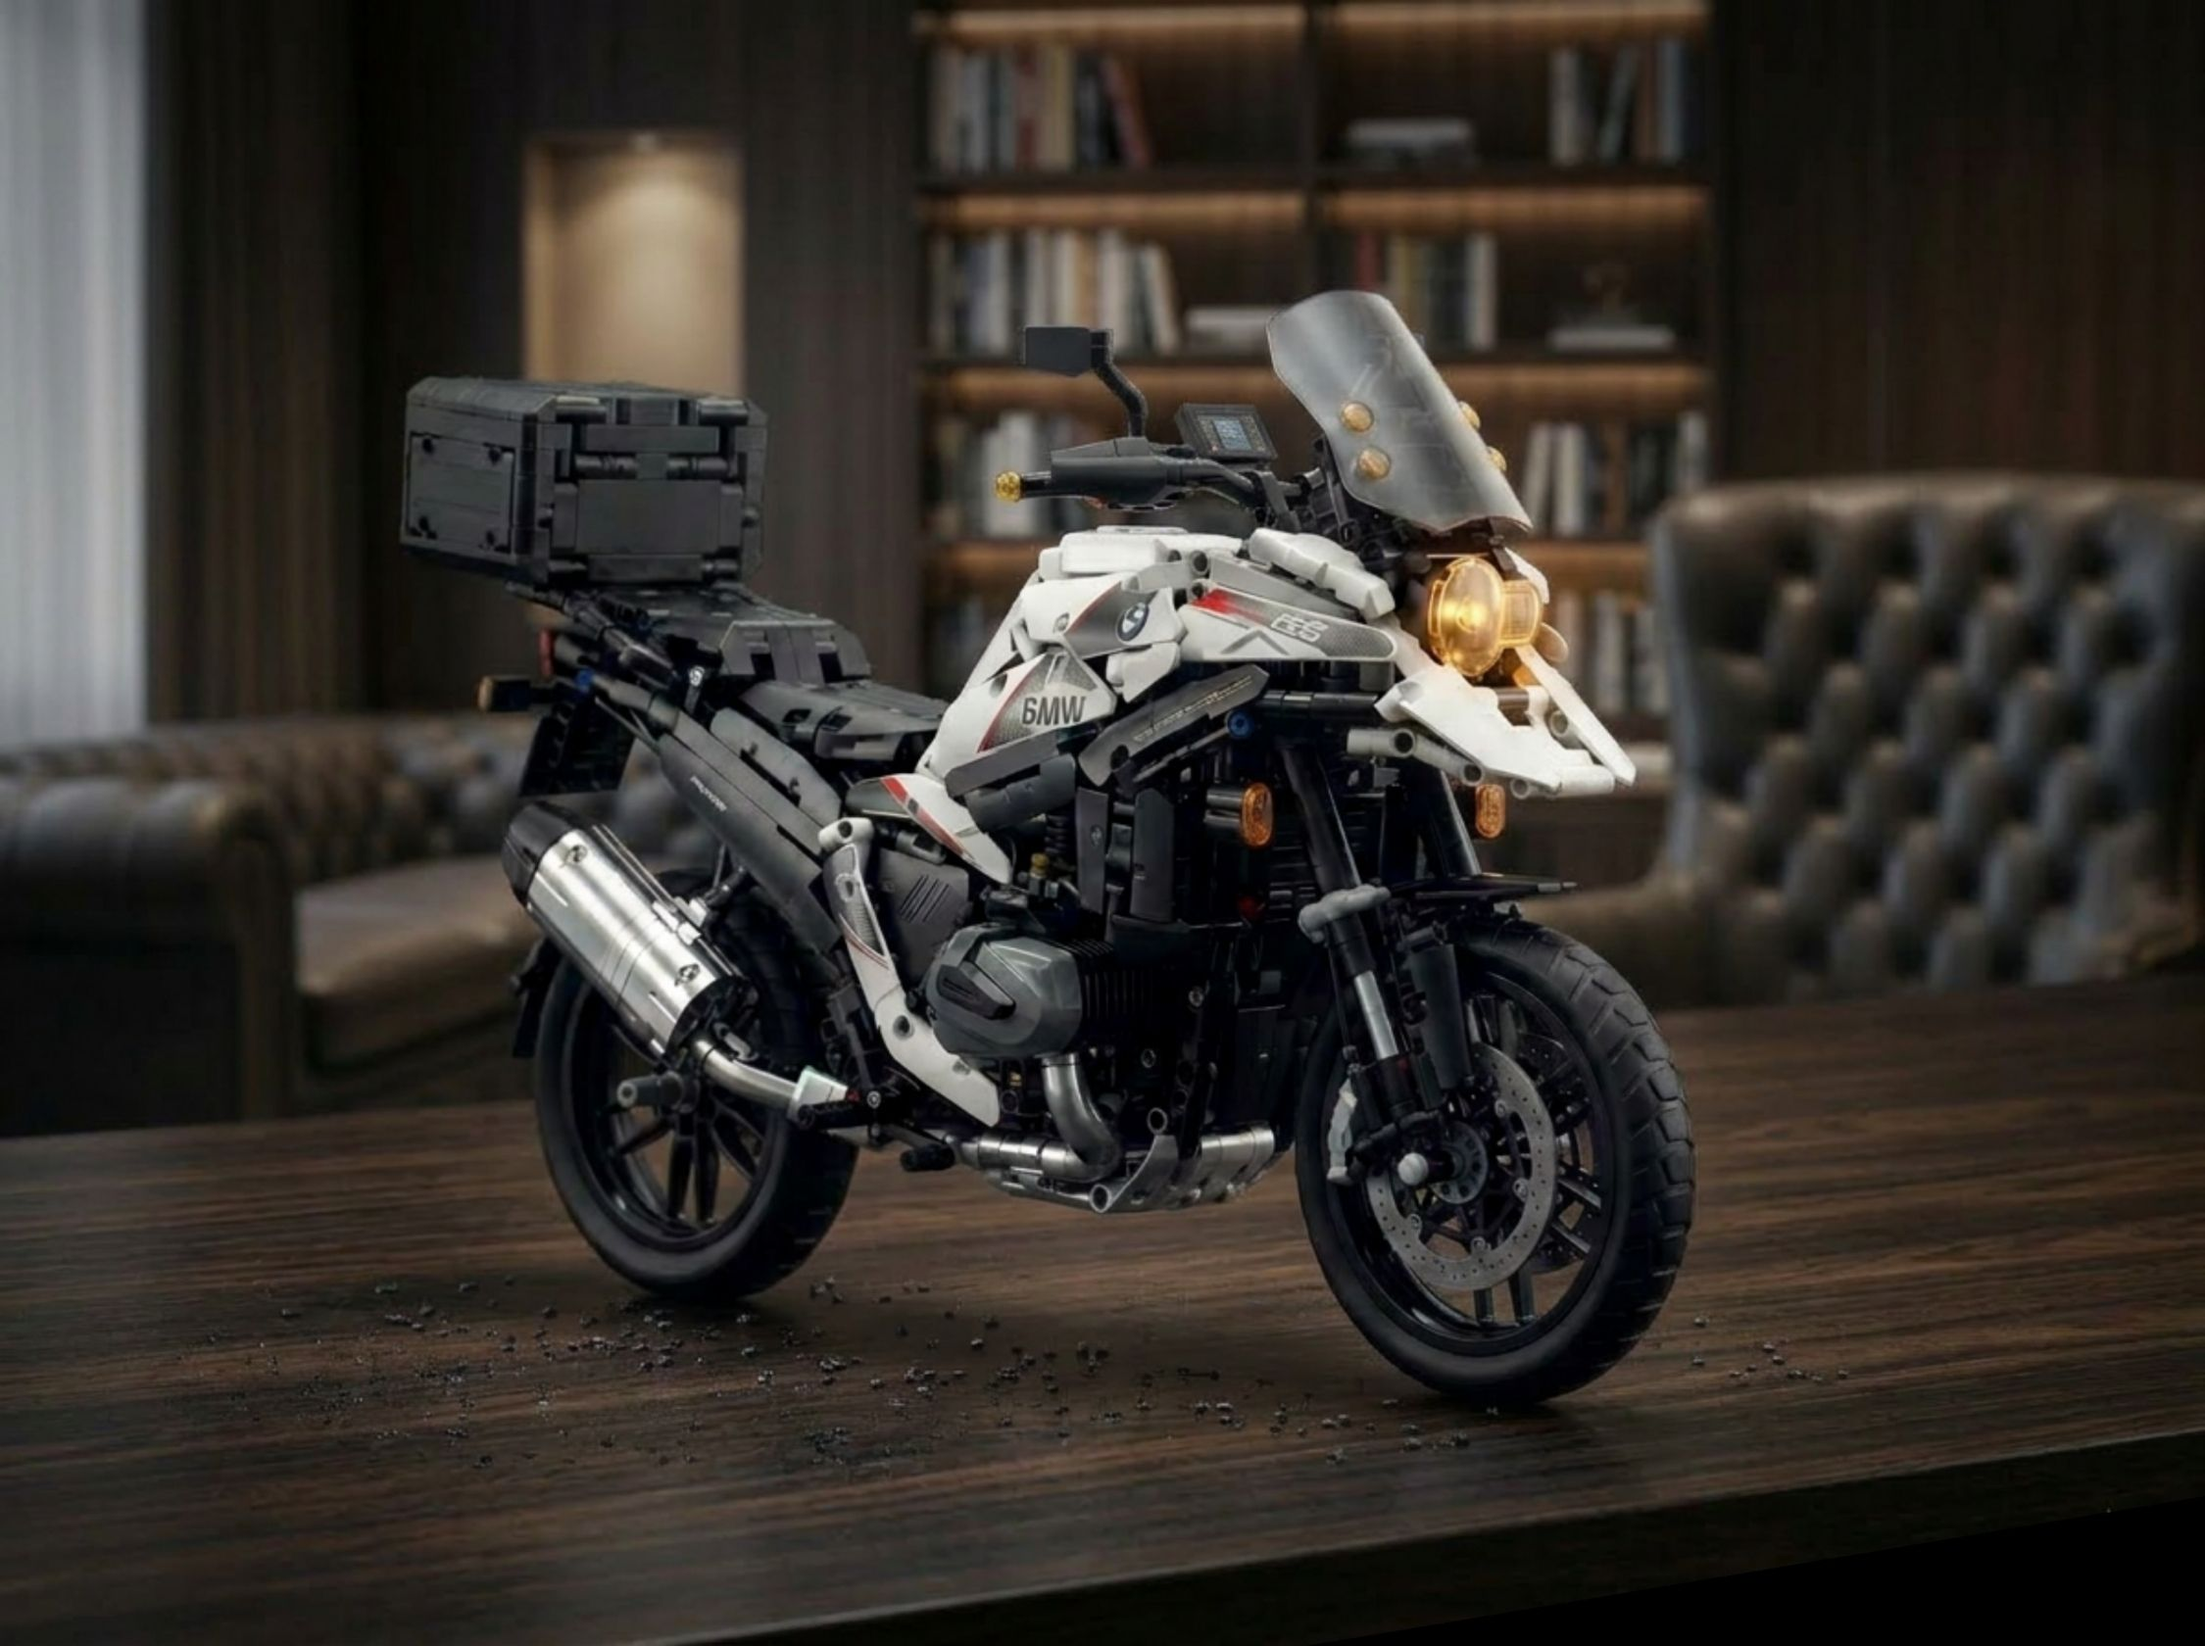
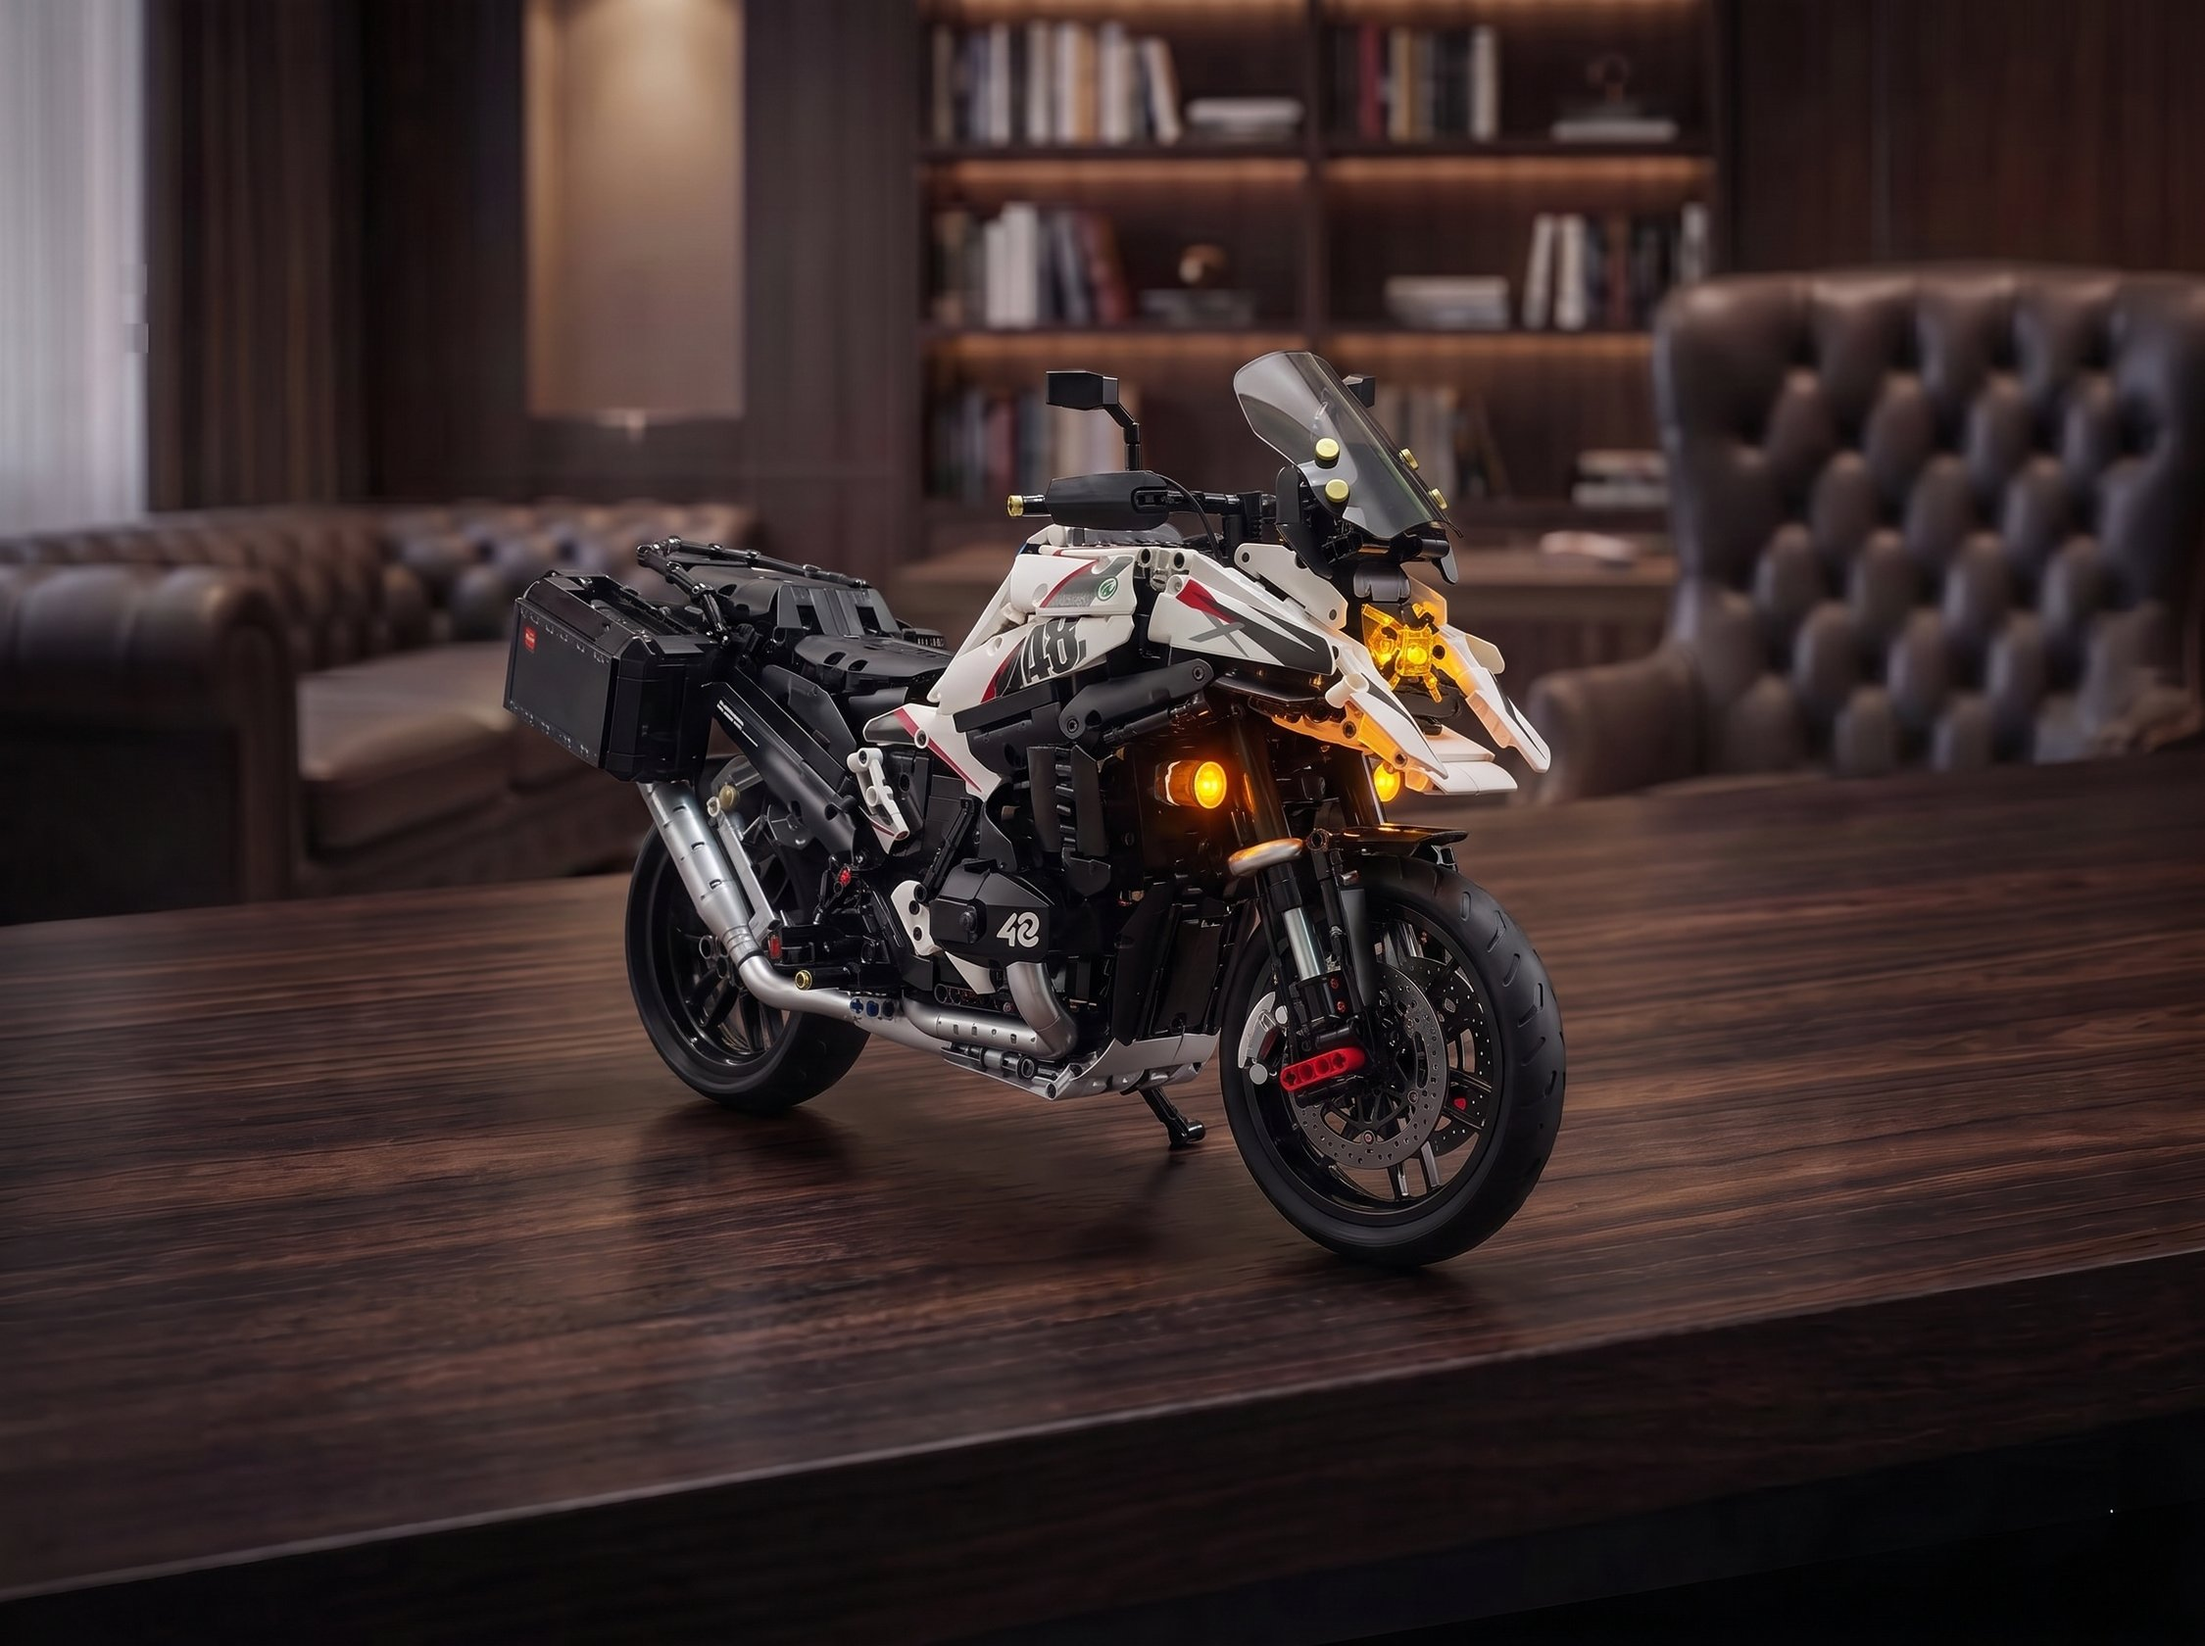
Fix S18-002 (motorcycle) cover photo and add gallery
The old cover showed a different motorcycle entirely, complete with a
real BMW logo — replaced with the correct GULY-branded model
composited into the same wood-table scene, built from a clean
background-removed cutout of the raw photo for detail fidelity (an
earlier full-photo composite lost too much of the bike's geometry).
Side, rear, and box angles use the same technique. Front angle still
pending upload.

Claude-Session: https://claude.ai/code/session_01HuxsrXfwLwPzmKVSGvupc5

diff --git a/site/src/lib/mockCatalog.ts b/site/src/lib/mockCatalog.ts
@@ -2,7 +2,7 @@ import type { CatalogProduct } from '@/types/catalog'
 
 export const mockCatalog: CatalogProduct[] = [
   { id: 'S18-001', sku: 'S18-001', name: 'Lamborghini LP5000', category: 'carro', brand_model: 'Lamborghini LP5000', manufacturer: 'GULY', collection_tag: 'Vintage', scale: '1:8', piece_count: 3970, sale_price_brl: 1564.4, image_url: '/products/S18-001.jpg', image_urls: ['/products/S18-001-frente.jpg', '/products/S18-001-lateral.jpg', '/products/S18-001-traseira.jpg', '/products/S18-001-caixa.jpg'], video_url: null, automotive_history: null, dimensions: null, spec_highlights: null, length_cm: null, height_cm: null, width_cm: null, quantity_available: 0 },
-  { id: 'S18-002', sku: 'S18-002', name: 'BMW R1300GS', category: 'moto', brand_model: 'BMW R1300GS', manufacturer: 'GULY', collection_tag: 'Motocicleta', scale: '1:5', piece_count: 2489, sale_price_brl: 1827.44, image_url: '/products/S18-002.jpg', image_urls: [], video_url: null, automotive_history: null, dimensions: null, spec_highlights: null, length_cm: null, height_cm: null, width_cm: null, quantity_available: 3 },
+  { id: 'S18-002', sku: 'S18-002', name: 'BMW R1300GS', category: 'moto', brand_model: 'BMW R1300GS', manufacturer: 'GULY', collection_tag: 'Motocicleta', scale: '1:5', piece_count: 2489, sale_price_brl: 1827.44, image_url: '/products/S18-002.jpg', image_urls: ['/products/S18-002-lateral.jpg', '/products/S18-002-traseira.jpg', '/products/S18-002-caixa.jpg'], video_url: null, automotive_history: null, dimensions: null, spec_highlights: null, length_cm: null, height_cm: null, width_cm: null, quantity_available: 3 },
   { id: 'S18-003', sku: 'S18-003', name: '963 (Edição Limitada Cromada)', category: 'carro', brand_model: 'Porsche 963', manufacturer: 'GULY', collection_tag: 'Lemans', scale: '1:8', piece_count: 3069, sale_price_brl: 1287.52, image_url: '/products/S18-003.jpg', image_urls: ['/products/S18-003-frente.jpg', '/products/S18-003-lateral.jpg', '/products/S18-003-traseira.jpg', '/products/S18-003-aberto.jpg', '/products/S18-003-caixa.jpg'], video_url: null, automotive_history: null, dimensions: null, spec_highlights: null, length_cm: null, height_cm: null, width_cm: null, quantity_available: 14 },
   { id: 'S18-004', sku: 'S18-004', name: 'BMW M4 GT4', category: 'carro', brand_model: 'BMW M4 GT4', manufacturer: 'CBOX', collection_tag: 'Série GT', scale: '1:8', piece_count: 4556, sale_price_brl: 1739.36, image_url: '/products/S18-004.jpg', image_urls: [], video_url: null, automotive_history: null, dimensions: null, spec_highlights: null, length_cm: null, height_cm: null, width_cm: null, quantity_available: 22 },
   { id: 'S18-005', sku: 'S18-005', name: 'Pagani Utopia', category: 'carro', brand_model: 'Pagani Utopia', manufacturer: 'CBOX', collection_tag: 'Supercarro', scale: '1:8', piece_count: 4688, sale_price_brl: 1353.66, image_url: '/products/S18-005.jpg', image_urls: [], video_url: null, automotive_history: null, dimensions: null, spec_highlights: null, length_cm: null, height_cm: null, width_cm: null, quantity_available: 8 },
